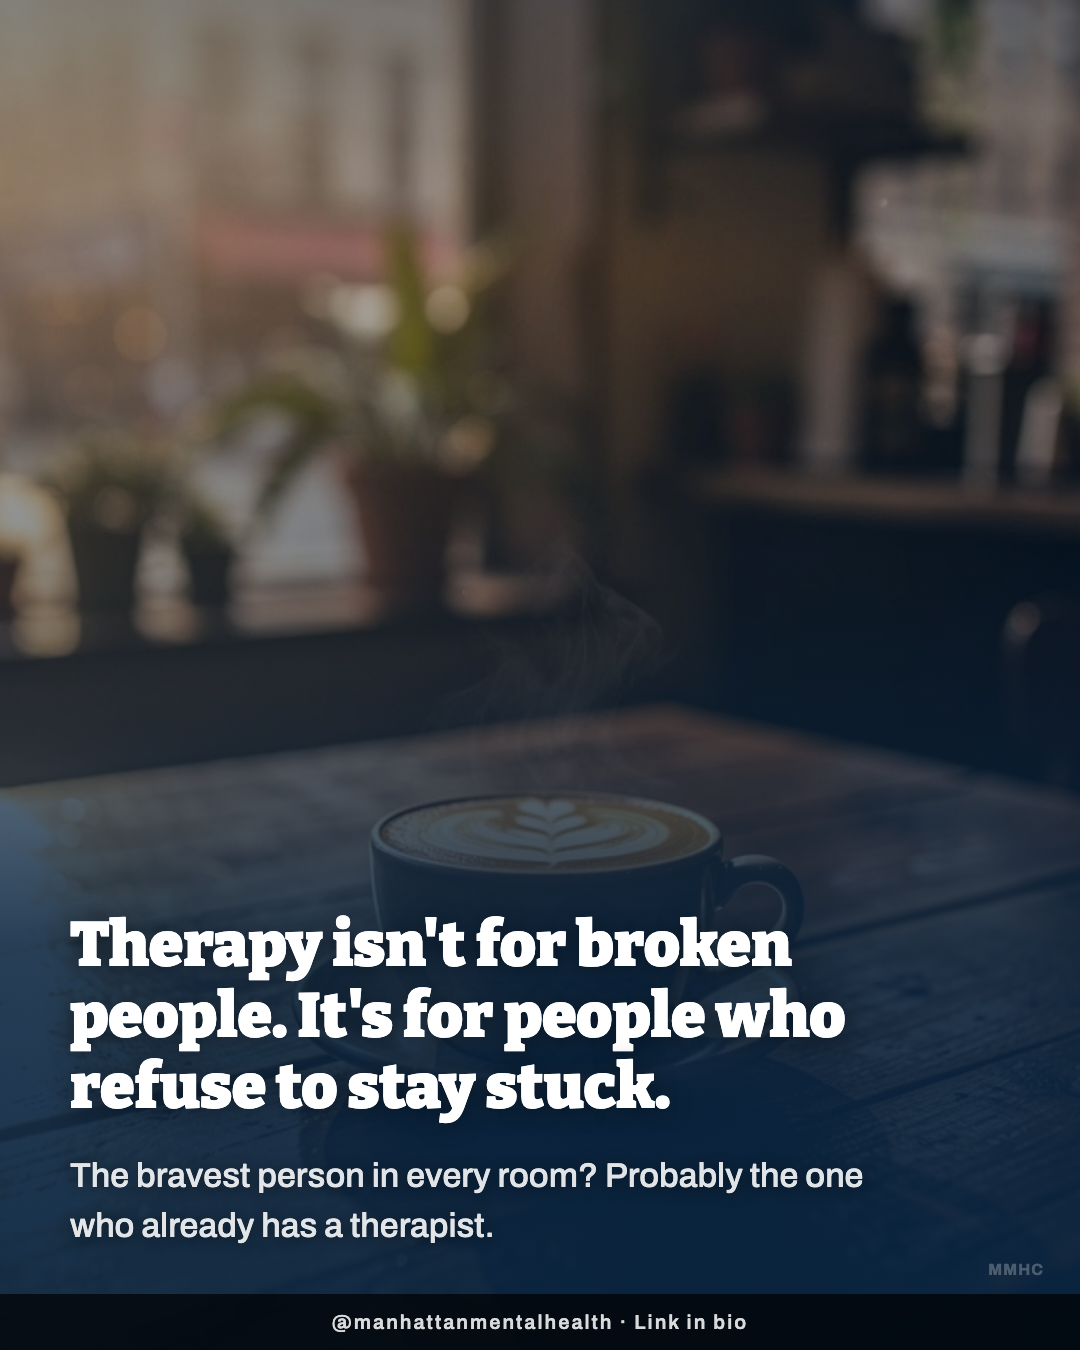
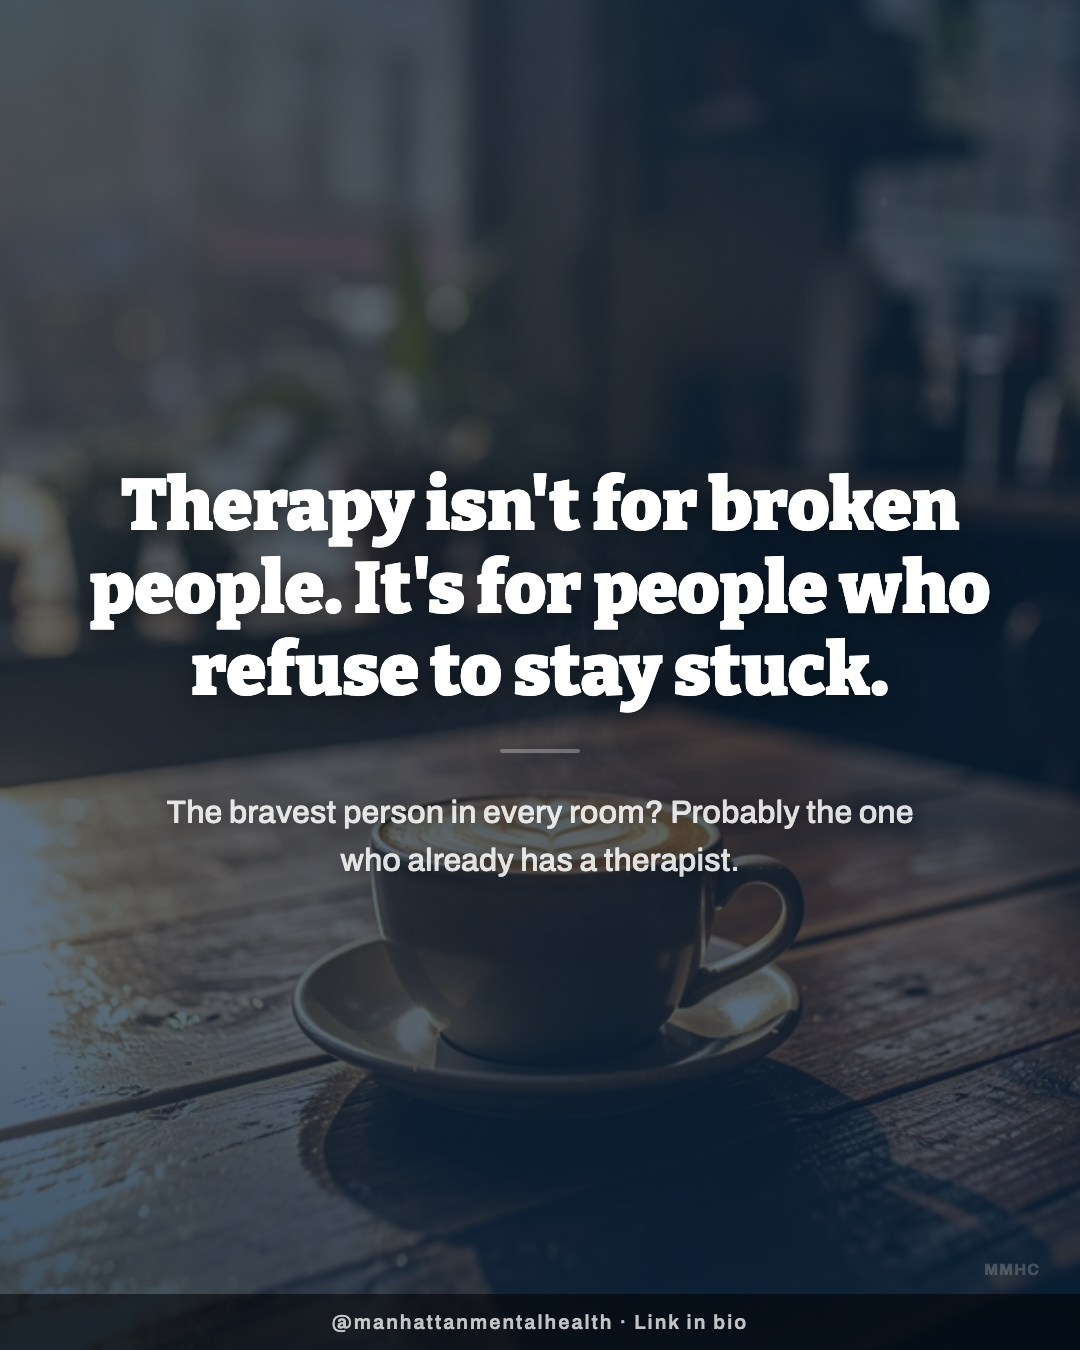
deploy: mmhc-content-factory — 2026-03-04 00:08:03 UTC

diff --git a/index.html b/index.html
@@ -14,7 +14,7 @@ h1{font-size:20px}ul{list-style:none;padding:0}li{padding:8px 0;border-bottom:1p
 <li><a href="finance-tracker/">finance-tracker</a> — Claude Code stress test: 8-file Personal Finance Tracker</li>
 <li><a href="memory-explorer/">memory-explorer</a> — Memory Explorer: searchable markdown file browser</li>
 <li><a href="mmhc-ai-anxiety/">mmhc-ai-anxiety</a> — AI Anxiety page v2 - light hero</li>
-<li><a href="mmhc-content-factory/">mmhc-content-factory</a> — Cache-busting for data.json + images, fixed Send to Da Vinci button (tg:// deep link)</li>
+<li><a href="mmhc-content-factory/">mmhc-content-factory</a> — V3 template: centered headline, text-dominant, grid-crop safe</li>
 <li><a href="mmhc-hero-c-therapy/">mmhc-hero-c-therapy</a> — Variant C therapy</li>
 <li><a href="mmhc-hero-final/">mmhc-hero-final</a> — Final hero - verified stats, mobile-tight</li>
 <li><a href="mmhc-hero-variants/">mmhc-hero-variants</a> — 3 hero variants for AI anxiety page</li>
@@ -30,4 +30,4 @@ h1{font-size:20px}ul{list-style:none;padding:0}li{padding:8px 0;border-bottom:1p
 <li><a href="video-knowledge-graph/">video-knowledge-graph</a> — Nav bar added</li>
 <li><a href="war-room/">war-room</a> — War Room ops dashboard</li>
 <li><a href="x-intelligence/">x-intelligence</a> — Live X Intelligence data — 2026-03-03 15:37</li>
-</ul><footer style="margin-top:20px;color:#666;font-size:12px">Last updated: 2026-03-03 23:46:51 UTC</footer></body></html>
+</ul><footer style="margin-top:20px;color:#666;font-size:12px">Last updated: 2026-03-04 00:08:03 UTC</footer></body></html>

diff --git a/mmhc-content-factory/README.md b/mmhc-content-factory/README.md
@@ -1,6 +1,6 @@
 # mmhc-content-factory
 
-Deployed: 2026-03-03 23:46:51 UTC
+Deployed: 2026-03-04 00:08:03 UTC
 Source: /Users/davinci/.openclaw/workspace/projects/mmhc-instagram-factory/deploy-source/
-Description: Cache-busting for data.json + images, fixed Send to Da Vinci button (tg:// deep link)
+Description: V3 template: centered headline, text-dominant, grid-crop safe
 URL: https://davinci282828.github.io/projects/mmhc-content-factory/
